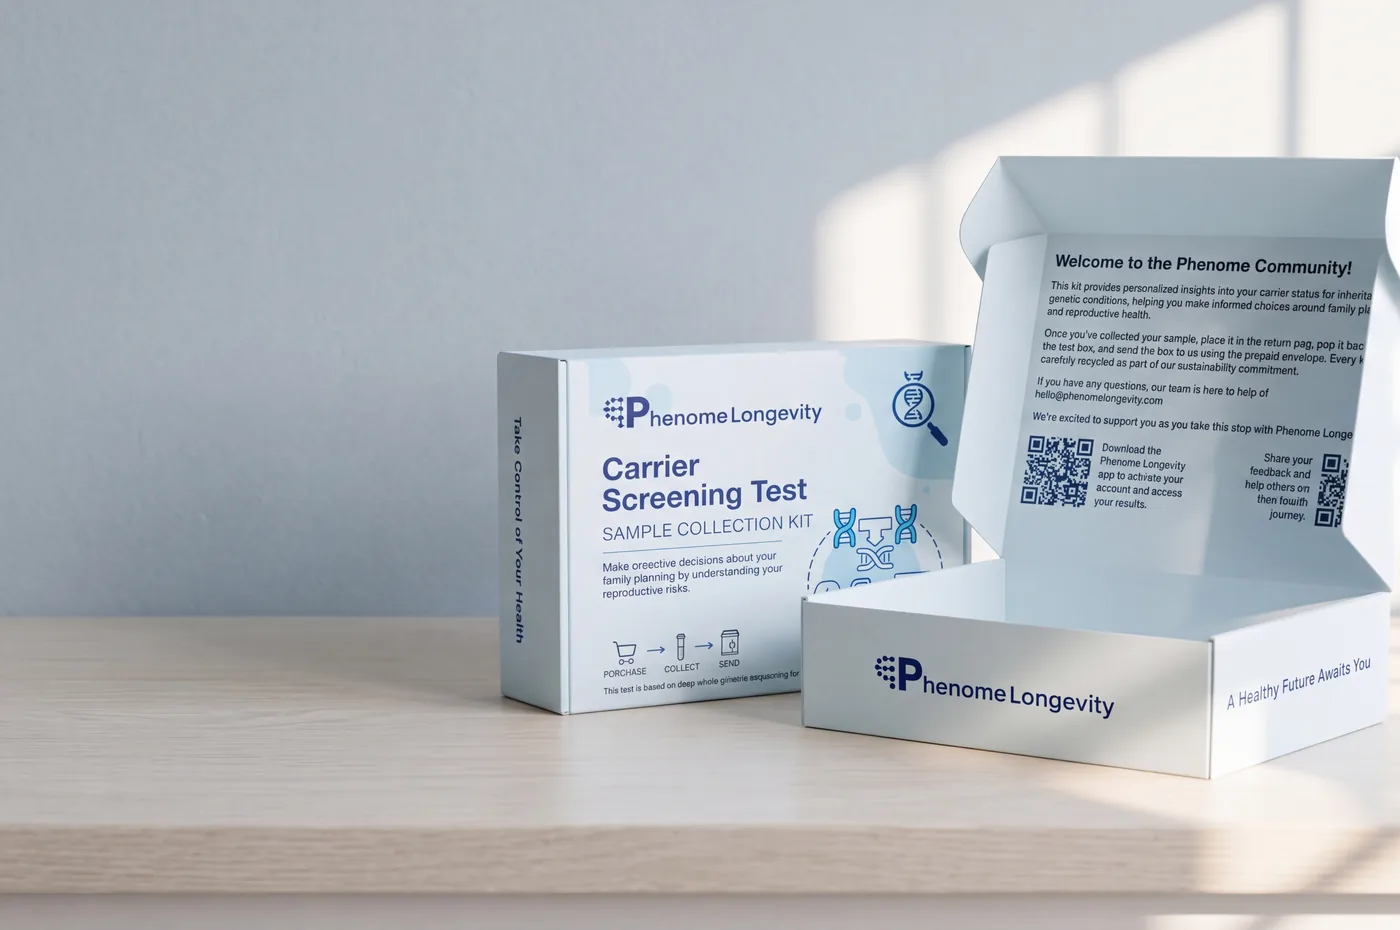
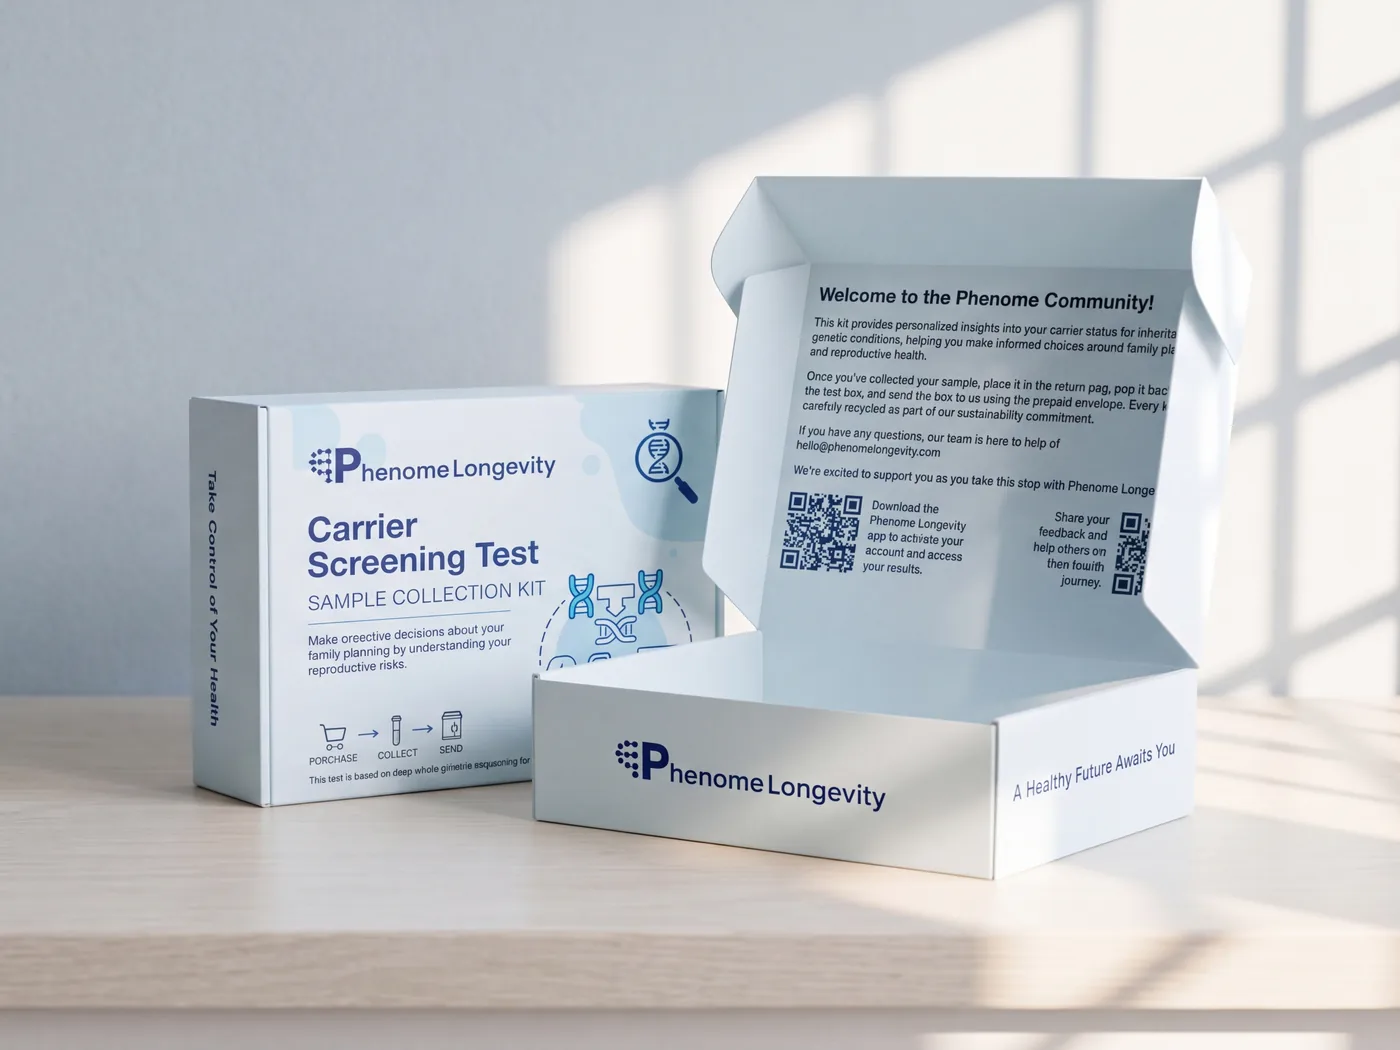
fix(store): carrier timeline plate shows the whole open kit

diff --git a/testing/carrier-screening/index.html b/testing/carrier-screening/index.html
@@ -257,7 +257,7 @@
 <img alt="A sequencing run being loaded in the laboratory" height="1001" loading="lazy" src="/phenome-store/assets/science/illumina-lab.webp" width="1800"/>
 <figcaption>Whole genome sequencing in our accredited lab.</figcaption>
 </figure>
-<figure class="ph-tl-sm" data-ph-float="-1"><img alt="" height="930" loading="lazy" src="/phenome-store/assets/carrier/tl-open.webp" width="1400"/></figure>
+<figure class="ph-tl-sm" data-ph-float="-1"><img alt="" height="1050" loading="lazy" src="/phenome-store/assets/carrier/tl-open.webp" style="object-position: 50% 50%" width="1400"/></figure>
 <figure class="ph-tl-round" data-ph-float="1"><img alt="" height="1200" loading="lazy" src="/phenome-store/assets/carrier/tl-round.webp" width="1200"/></figure>
 </div>
 </div>
